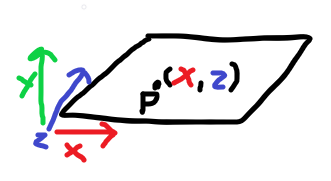
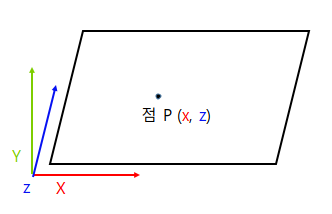
* 트리플라나 수정

Changed region(s): [[0.0302, 0.1381, 0.9668, 0.9116], [0.0302, 0.6906, 0.0604, 0.7735], [0.0604, 0.8564, 0.0906, 0.9116]]

diff --git a/Assets/Tutorials/triplanar/triplanar.md b/Assets/Tutorials/triplanar/triplanar.md
@@ -9,10 +9,10 @@
 Shader "UnityShaderTutorial/triplanar" {
     Properties
     {
-        _MainTex ("Texture", 2D) = "white" {}
+        _Texture ("Texture", 2D) = "white" {}
         _Tiling ("Tiling", Float) = 1.0
-        _OcclusionMap("Occlusion", 2D) = "white" {}
     }
+
     SubShader
     {
         Pass
@@ -26,24 +26,21 @@ Shader "UnityShaderTutorial/triplanar" {
             {
                 half3 objNormal : TEXCOORD0;
                 float3 coords : TEXCOORD1;
-                float2 uv : TEXCOORD2;
                 float4 pos : SV_POSITION;
             };
 
             float _Tiling;
 
-            v2f vert (float4 pos : POSITION, float3 normal : NORMAL, float2 uv : TEXCOORD0)
+            v2f vert (float4 pos : POSITION, float3 normal : NORMAL)
             {
                 v2f o;
                 o.pos = UnityObjectToClipPos(pos);
                 o.coords = pos.xyz * _Tiling;
                 o.objNormal = normal;
-                o.uv = uv;
                 return o;
             }
 
-            sampler2D _MainTex;
-            sampler2D _OcclusionMap;
+            sampler2D _Texture;
             
             fixed4 frag (v2f i) : SV_Target
             {
@@ -52,14 +49,11 @@ Shader "UnityShaderTutorial/triplanar" {
                 // make sure the weights sum up to 1 (divide by sum of x+y+z)
                 blend /= dot(blend, 1.0);
                 // read the three texture projections, for x,y,z axes
-                fixed4 cx = tex2D(_MainTex, i.coords.yz);
-                fixed4 cy = tex2D(_MainTex, i.coords.xz);
-                fixed4 cz = tex2D(_MainTex, i.coords.xy);
+                fixed4 cx = tex2D(_Texture, i.coords.yz);
+                fixed4 cy = tex2D(_Texture, i.coords.xz);
+                fixed4 cz = tex2D(_Texture, i.coords.xy);
                 // blend the textures based on weights
-                fixed4 c = cx * blend.x + cy * blend.y + cz * blend.z;
-                // modulate by regular occlusion map
-                c *= tex2D(_OcclusionMap, i.uv);
-                return c;
+                return cx * blend.x + cy * blend.y + cz * blend.z;
             }
             ENDCG
         }
@@ -77,6 +71,8 @@ UV 좌표는 그리드에서 펼쳐지며 XY 평면에 고르게 배치되는데
 트리플라나 매핑은 UV 좌표를 사용하지 않고, 정점 쉐이더에서 물체의 로컬 좌표나 월드 좌표를 반환하고 조각쉐이더에서 새로운 UV 좌표를 만들어서 물체에 투영시키는 기법입니다.
 
 ## 투영 평면 계산
+
+* Y 평면에 대한 투영
 
 ![](Images/img1.PNG)
 
@@ -101,43 +97,15 @@ i.coords.xy; // Z
 half3 blend = abs(i.objNormal);
 blend /= dot(blend, 1.0)
 ```
-![](Images/exp1.PNG)
-![](Images/exp2.PNG)
 
 X, Y, Z 평면에 대해서만 투영을 하고 있기 때문에 절대값을 취해 음수를 없애고, 법선 벡터의 각 성분값들의 합을 `1`로 만들기 위해 1과 내적한 뒤, 자기 자신과 나눕니다.
 
+![](Images/exp1.PNG)
+
+위에서 구한 스칼라 값으로 `blend` 변수와 나누기를 합니다.
+
+![](Images/exp2.PNG)
+
 ## 결과
 
-특이하게도 유니티 메뉴얼에 있는 코드가 적용되지 않아서 따로 찾아본 코드를 첨부합니다.
-
-```c
-v2f vert (float4 pos : POSITION, float3 normal : NORMAL)
-{
-    v2f o;
-    o.pos = UnityObjectToClipPos(pos);
-	o.worldPos = mul(unity_ObjectToWorld, pos);
-    o.worldNormal = UnityObjectToWorldNormal(normal);
-    return o;
-}
-            
-fixed4 frag (v2f i) : SV_Target
-{
-	half2 xUV = i.worldPos.zy / _TextureScale;
-	half2 yUV = i.worldPos.xz / _TextureScale;
-	half2 zUV = i.worldPos.xy / _TextureScale;
-
-	half4 cx = tex2D(_DiffuseMap, xUV);
-	half4 cy = tex2D(_DiffuseMap, yUV);
-	half4 cz = tex2D(_DiffuseMap, zUV);
-
-	half3 blend = abs(i.worldNormal);
-	blend /= dot(blend, 1.0);
-
-	fixed4 c = cx * blend.x + cy * blend.y + cz * blend.z;
-
-    return c;
-}
-```
-
 ![](Images/img2.PNG)
-![](Images/img3.PNG)
